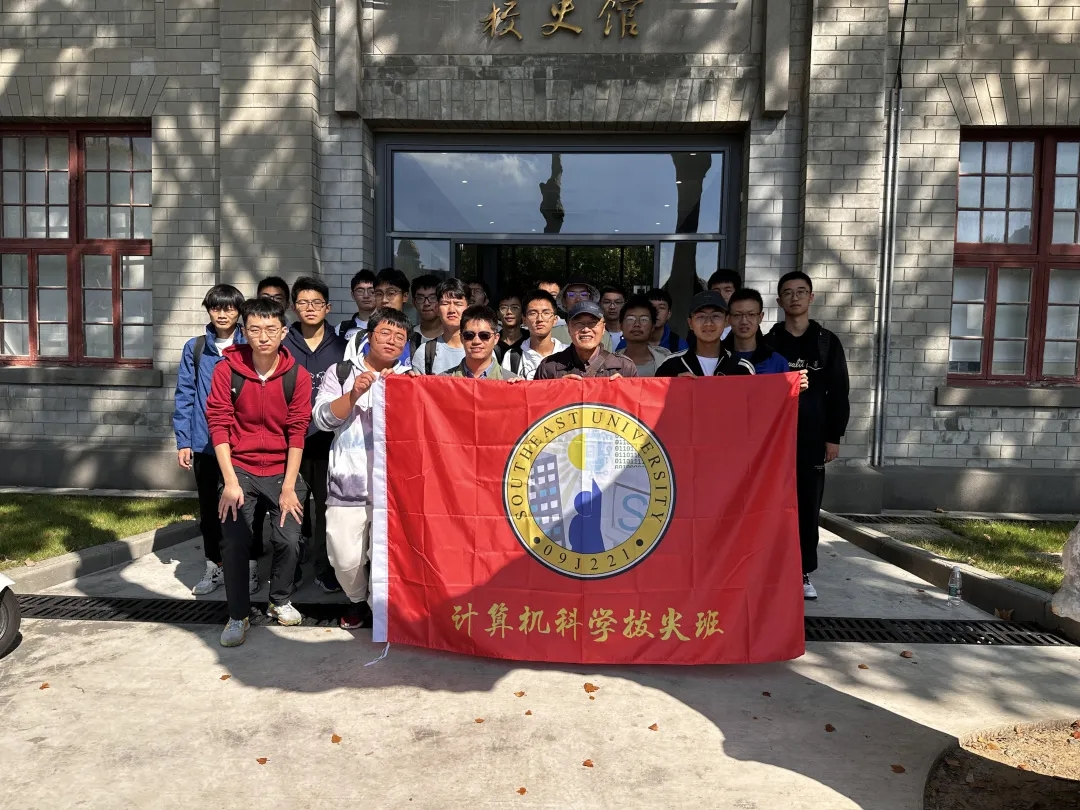
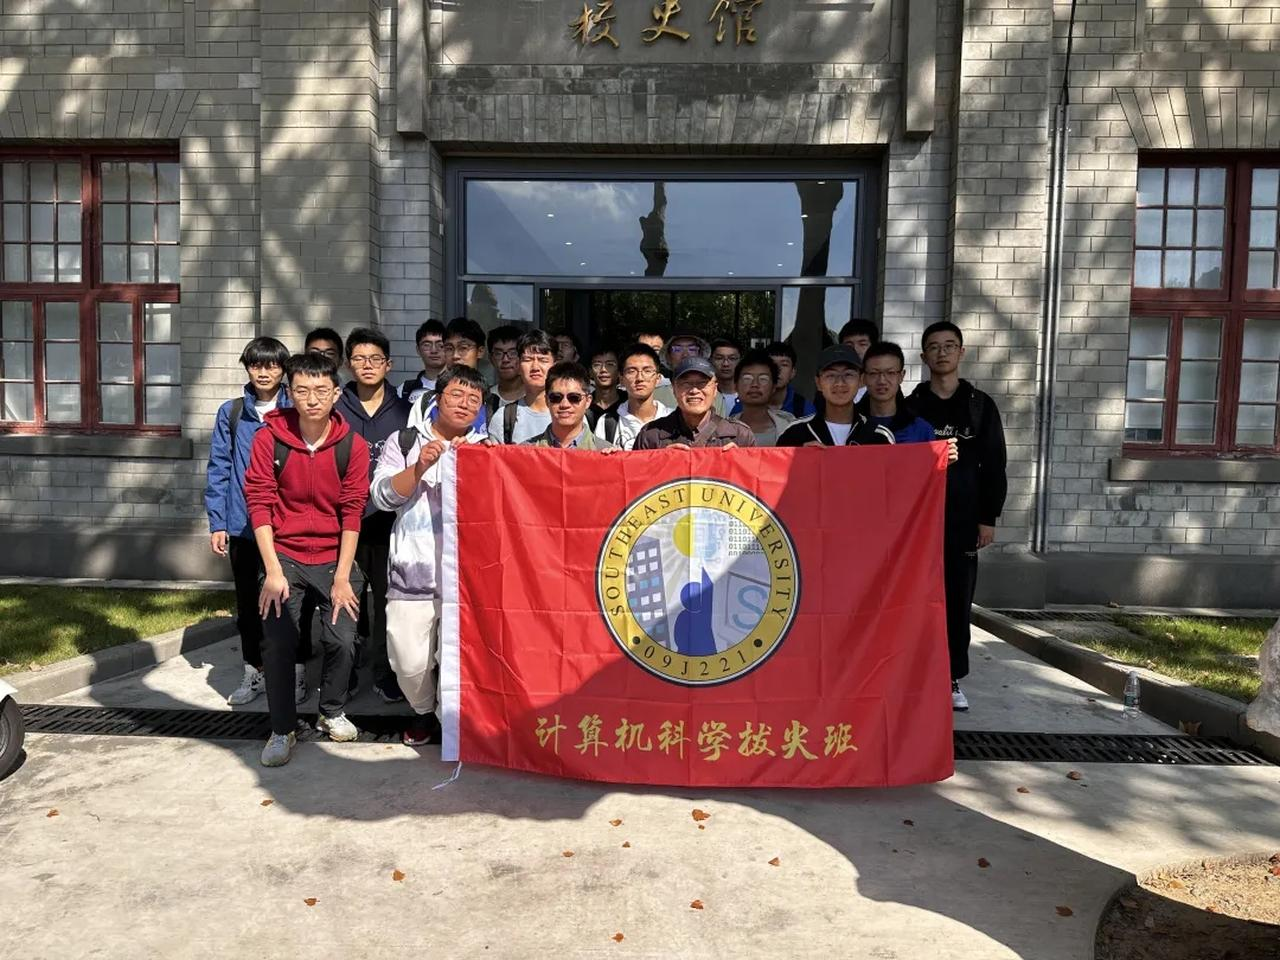
news gallery pics

diff --git a/Docs/how_to_change_news_and_pics.md b/Docs/how_to_change_news_and_pics.md
@@ -15,7 +15,7 @@
 - id：日期+活动名
 - image：
   - 命名：日期 + 活动
-  - 尺寸：2048 * 1152 像素
+  - 尺寸：1280 * 960 像素
   - 图片存放目录：chpu437.github.io/images/gallery
 - intro：会展示在图片下方的图片介绍
   
